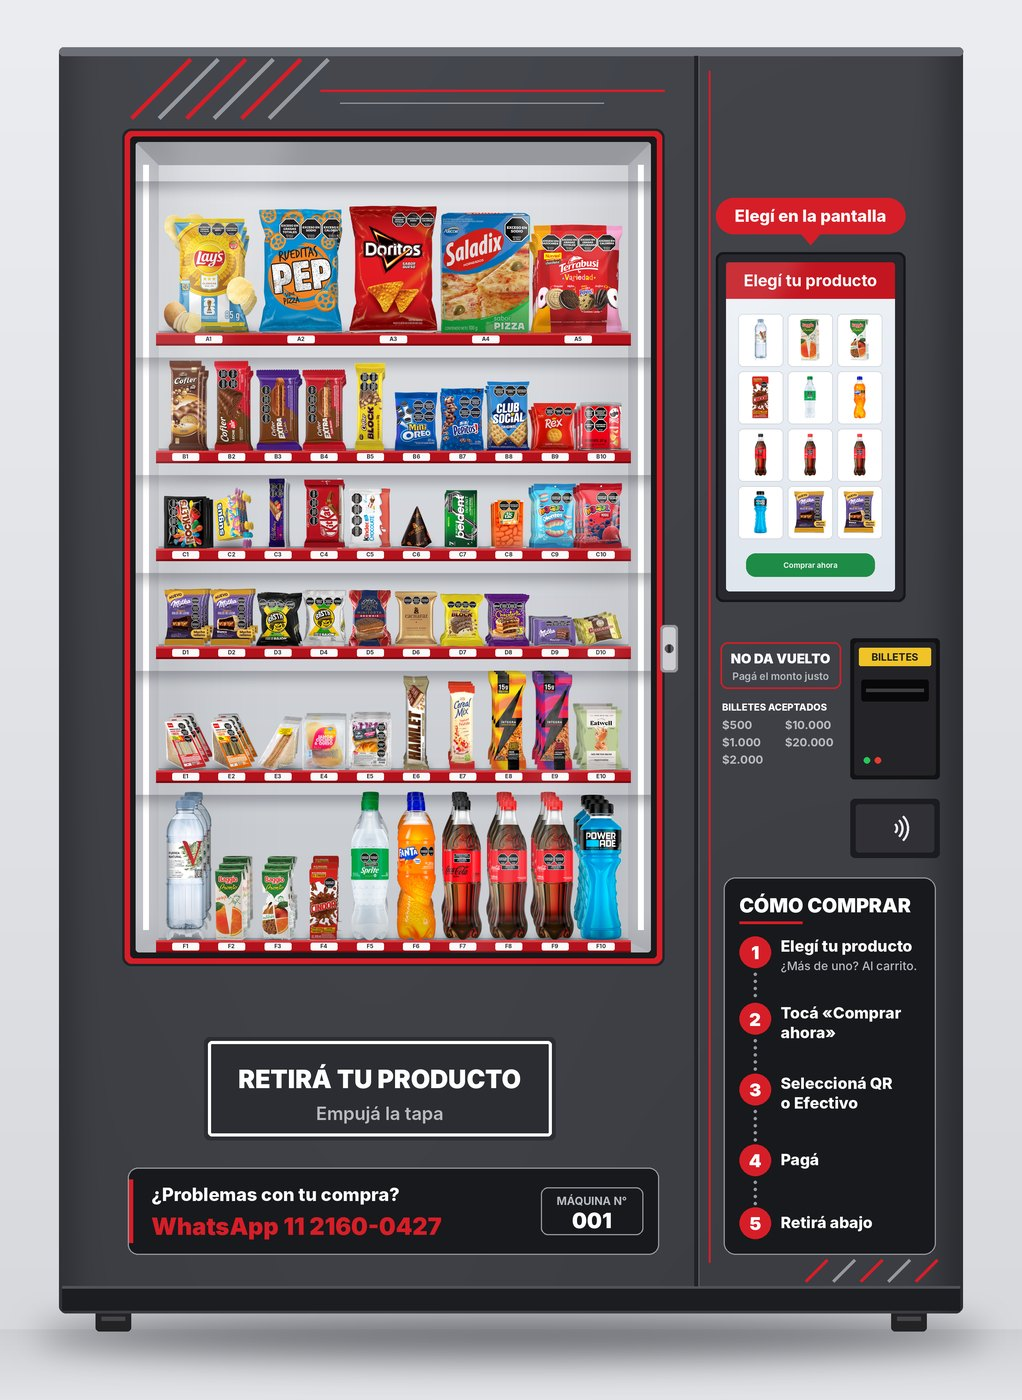
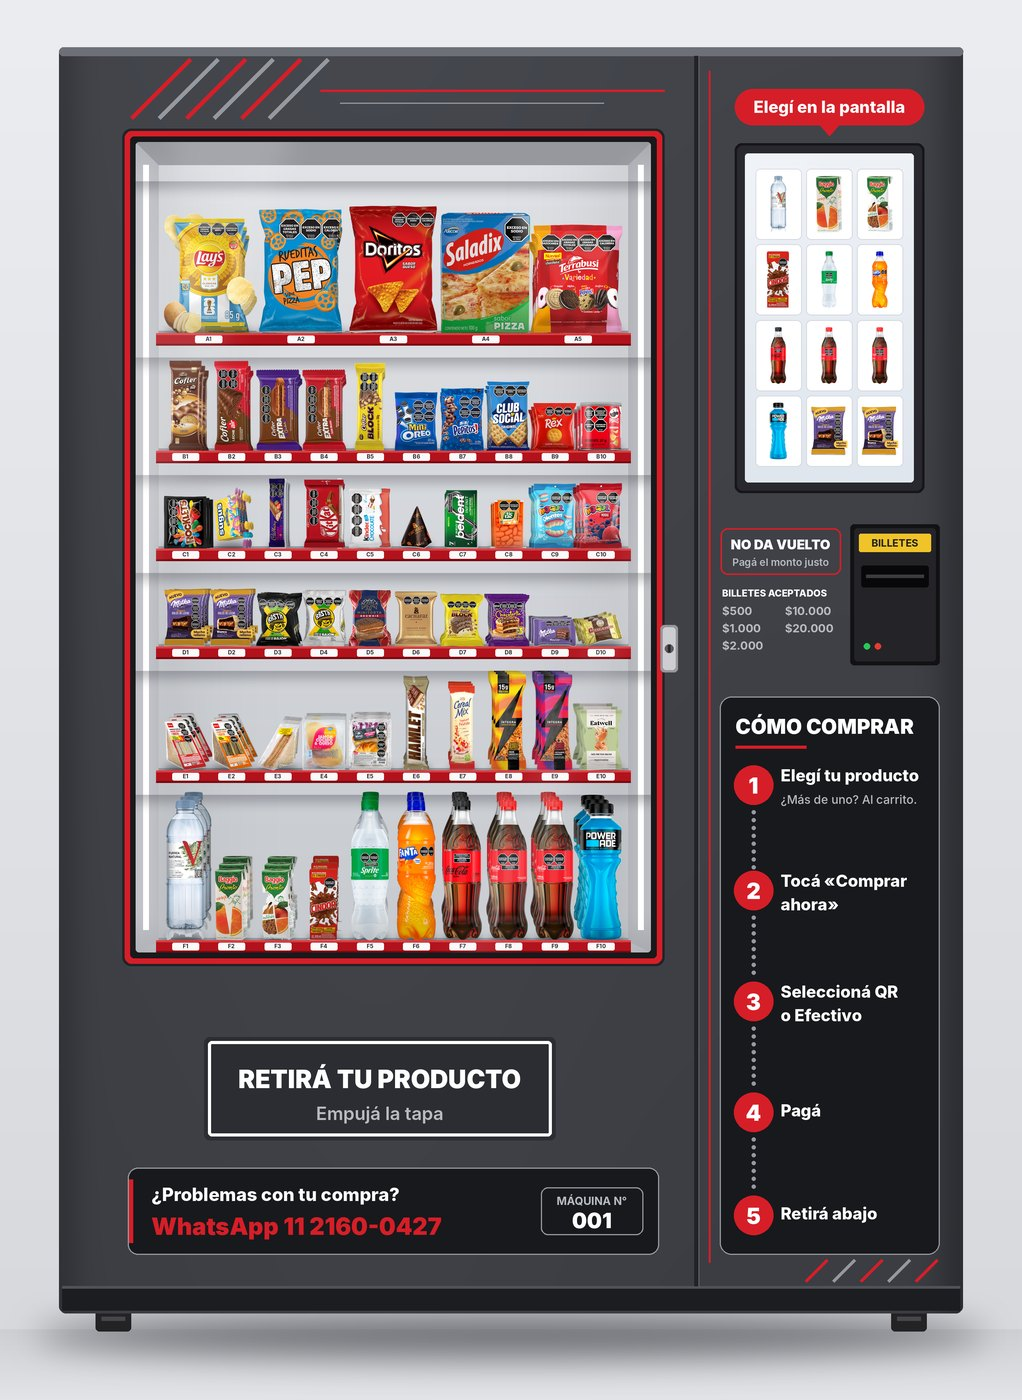
Ploteo sanatorio: sin lector, pantalla solo productos, centrada y más arriba
Claude-Session: https://claude.ai/code/session_019riW69UisGa26ciLraXE3K

Changed region(s): [[0.6977, 0.0614, 0.9403, 0.8907]]

diff --git a/maquina-expendedora/scripts/ploteo_sanatorio.py b/maquina-expendedora/scripts/ploteo_sanatorio.py
@@ -35,11 +35,16 @@ def lineas_diagonales(d, x0, y0, n, largo, sep, ancho, colores, sube=True):
 
 
 def ploteo(v):
-    C.PAL = v["pal"]; C.DIBUJAR_PUSH = False; C.TEXTO_PAGO = "Comprar ahora"
-    # En la máquina real el billetero está casi pegado al borde derecho del panel
-    _, by0_, _, by1_ = C.BILL
-    bw = C.BILL[2] - C.BILL[0]
-    C.BILL = (C.MX0 + C.MW - 70 - bw, by0_, C.MX0 + C.MW - 70, by1_)
+    C.PAL = v["pal"]; C.DIBUJAR_PUSH = False; C.PANTALLA_SOLO_PRODUCTOS = True; C.DIBUJAR_LECTOR = False
+    # Pantalla más arriba y centrada en el panel derecho; el billetero, debajo y casi pegado al borde
+    R0 = C.MX0 + C.MW
+    sw, sh = C.SCREEN0[2] - C.SCREEN0[0], C.SCREEN0[3] - C.SCREEN0[1]
+    scx = (C.PANEL_X + R0) / 2
+    st = C.MY0 + 270
+    C.SCREEN = (int(scx - sw / 2), st, int(scx + sw / 2), st + sh)
+    bw, bh = C.BILL0[2] - C.BILL0[0], C.BILL0[3] - C.BILL0[1]
+    bt = st + sh + 26 + 90
+    C.BILL = (R0 - 70 - bw, bt, R0 - 70, bt + bh)
     img = C.componer({1, 2, 3, 4, 5, 6}, "tmp", "distribucion.json", guardar=False).convert("RGB")
     d = ImageDraw.Draw(img)
     caja, l2 = v["caja"], v["linea2"]
@@ -78,33 +83,33 @@ def ploteo(v):
         d.text((lx0 + 4 + col * 160, by0 + 192 + fila * 44), b, font=fnt("b", 29), fill=GRIS_T)
 
     # Cómo comprar (fondo negro, letras claras, borde de línea)
-    sx0, sx1, sy0 = P + 70, R - 70, by1 + 260
+    sx0, sx1, sy0 = P + 60, R - 60, by1 + 90
     sy1 = B - 150
     d.rounded_rectangle((sx0, sy0, sx1, sy1), 30, fill=caja, outline=l2, width=3)
-    d.text((sx0 + 40, sy0 + 40), "CÓMO COMPRAR", font=fnt("black", 50), fill=BLANCO)
-    d.line((sx0 + 40, sy0 + 115, sx0 + 200, sy0 + 115), fill=ROJO, width=7)
+    d.text((sx0 + 40, sy0 + 44), "CÓMO COMPRAR", font=fnt("black", 52), fill=BLANCO)
+    d.line((sx0 + 40, sy0 + 128, sx0 + 220, sy0 + 128), fill=ROJO, width=8)
     # cada paso: líneas del título (en blanco) + líneas de aclaración (en gris)
     pasos = [(["Elegí tu producto"], ["¿Más de uno? Al carrito."]),
              (["Tocá «Comprar", "ahora»"], []),
              (["Seleccioná QR", "o Efectivo"], []),
              (["Pagá"], []),
              (["Retirá abajo"], [])]
-    alto = lambda t, s: max(80, 50 * len(t) + 40 * len(s))
-    libre = (sy1 - 40) - (sy0 + 150) - sum(alto(t, s) for t, s in pasos)
+    alto = lambda t, s: max(100, 60 * len(t) + 46 * len(s))
+    libre = (sy1 - 50) - (sy0 + 175) - sum(alto(t, s) for t, s in pasos)
     gap = libre / (len(pasos) - 1)
-    y = sy0 + 150
+    y = sy0 + 175
     for i, (tit, sub) in enumerate(pasos):
         h = alto(tit, sub)
-        d.ellipse((sx0 + 40, y, sx0 + 120, y + 80), fill=ROJO)
-        centro(d, (sx0 + 80, y + 41), str(i + 1), fnt("black", 46), BLANCO)
-        ty = y + (14 if len(tit) == 1 and not sub else 0)
+        d.ellipse((sx0 + 36, y, sx0 + 136, y + 100), fill=ROJO)
+        centro(d, (sx0 + 86, y + 51), str(i + 1), fnt("black", 56), BLANCO)
+        ty = y + (20 if len(tit) == 1 and not sub else 0)
         for j, ln in enumerate(tit):
-            d.text((sx0 + 145, ty + j * 50), ln, font=fnt("xb", 40), fill=BLANCO)
+            d.text((sx0 + 155, ty + j * 60), ln, font=fnt("xb", 42), fill=BLANCO)
         for j, ln in enumerate(sub):
-            d.text((sx0 + 145, ty + len(tit) * 50 + 6 + j * 40), ln, font=fnt("m", 30), fill=GRIS_T)
+            d.text((sx0 + 155, ty + len(tit) * 60 + 8 + j * 46), ln, font=fnt("m", 30), fill=GRIS_T)
         if i < len(pasos) - 1:                # línea punteada que une los pasos
-            for yy in range(int(y + 92), int(y + h + gap - 10), 18):
-                d.ellipse((sx0 + 76, yy, sx0 + 84, yy + 8), fill=l2)
+            for yy in range(int(y + 114), int(y + h + gap - 12), 20):
+                d.ellipse((sx0 + 81, yy, sx0 + 91, yy + 10), fill=l2)
         y += h + gap
 
     # Puerta de retiro

diff --git a/maquina-expendedora/scripts/componer.py b/maquina-expendedora/scripts/componer.py
@@ -26,6 +26,7 @@ GLASS = (mx(0.085), my(0.075), mx(0.655), my(0.715))   # vidriera (x0,y0,x1,y1)
 PANEL_X = mx(0.705)                                      # costura con el panel derecho
 SCREEN = (mx(0.738), my(0.17), mx(0.925), my(0.43))
 BILL = (mx(0.795), my(0.47), mx(0.885), my(0.575))
+SCREEN0, BILL0 = SCREEN, BILL   # posiciones de fábrica
 PUSH = (mx(0.165), my(0.785), mx(0.545), my(0.86))
 
 RED = (196, 22, 32)
@@ -36,6 +37,8 @@ PAL = {"body": RED, "dark": RED_DARK, "light": RED_LIGHT, "bevel": (214, 40, 46)
        "zocalo": (120, 10, 18), "zocalo_l": (160, 20, 28), "push": (170, 16, 26), "panel": None}
 DIBUJAR_PUSH = True
 TEXTO_PAGO = "Pagá con QR, tarjeta o efectivo"
+PANTALLA_SOLO_PRODUCTOS = False   # sin título ni botón: solo la grilla de productos
+DIBUJAR_LECTOR = True             # lector de tarjeta sin contacto debajo del billetero
 
 
 def font(path, size):
@@ -134,10 +137,13 @@ def pantalla(img, thumbs):
     w, h = x1 - x0, y1 - y0
     scr = vgrad(w, h, (238, 242, 247), (224, 230, 238))
     sd = ImageDraw.Draw(scr)
-    sd.rectangle((0, 0, w, int(h * 0.11)), fill=RED)
-    sd.text((w / 2, h * 0.055), "Elegí tu producto", font=font(FONT_B, int(h * 0.05)), fill="white", anchor="mm")
     cols, rows = 3, 4
-    gx0, gy0, gw, gh = int(w * 0.06), int(h * 0.15), int(w * 0.88), int(h * 0.70)
+    if PANTALLA_SOLO_PRODUCTOS:
+        gx0, gy0, gw, gh = int(w * 0.05), int(h * 0.04), int(w * 0.90), int(h * 0.92)
+    else:
+        sd.rectangle((0, 0, w, int(h * 0.11)), fill=RED)
+        sd.text((w / 2, h * 0.055), "Elegí tu producto", font=font(FONT_B, int(h * 0.05)), fill="white", anchor="mm")
+        gx0, gy0, gw, gh = int(w * 0.06), int(h * 0.15), int(w * 0.88), int(h * 0.70)
     cw, ch = gw / cols, gh / rows
     for i, t in enumerate(thumbs[: cols * rows]):
         c, r = i % cols, i // cols
@@ -146,8 +152,9 @@ def pantalla(img, thumbs):
         sd.rounded_rectangle((bx, by, bx + bw, by + bh), 12, fill="white", outline=(210, 214, 222), width=2)
         tt = t.copy(); tt.thumbnail((int(bw * 0.8), int(bh * 0.8)), Image.LANCZOS)
         scr.paste(tt, (bx + (bw - tt.width) // 2, by + (bh - tt.height) // 2), tt)
-    sd.rounded_rectangle((int(w * 0.12), int(h * 0.885), int(w * 0.88), int(h * 0.955)), 24, fill=(30, 140, 70))
-    sd.text((w / 2, h * 0.92), TEXTO_PAGO, font=font(FONT_M, int(h * 0.023)), fill="white", anchor="mm")
+    if not PANTALLA_SOLO_PRODUCTOS:
+        sd.rounded_rectangle((int(w * 0.12), int(h * 0.885), int(w * 0.88), int(h * 0.955)), 24, fill=(30, 140, 70))
+    if not PANTALLA_SOLO_PRODUCTOS: sd.text((w / 2, h * 0.92), TEXTO_PAGO, font=font(FONT_M, int(h * 0.023)), fill="white", anchor="mm")
     img.paste(scr, (x0, y0), rounded_mask((w, h), 8))
     # reflejo del vidrio de la pantalla
     refl = Image.new("L", (w, h), 0)
@@ -170,6 +177,8 @@ def billetero(img):
     for i, col in enumerate([(40, 200, 90), (230, 60, 50)]):
         d.ellipse((x0 + 24 + i * 28, y1 - 46, x0 + 40 + i * 28, y1 - 30), fill=col)
     # lector de tarjeta / QR debajo
+    if not DIBUJAR_LECTOR:
+        return
     cx0, cy0 = x0 - 10, y1 + 60
     d.rounded_rectangle((cx0, cy0, x1 + 10, cy0 + 150), 12, fill=(28, 28, 32))
     d.rounded_rectangle((cx0 + 14, cy0 + 14, x1 - 4, cy0 + 136), 8, fill=(48, 48, 54))
